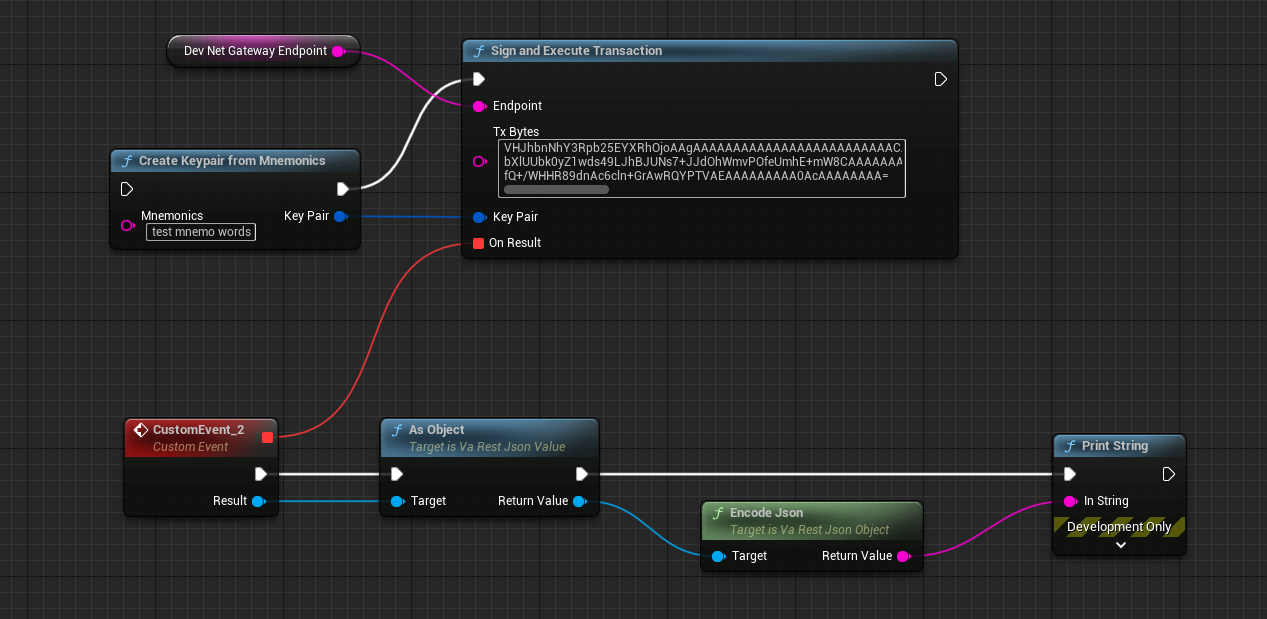
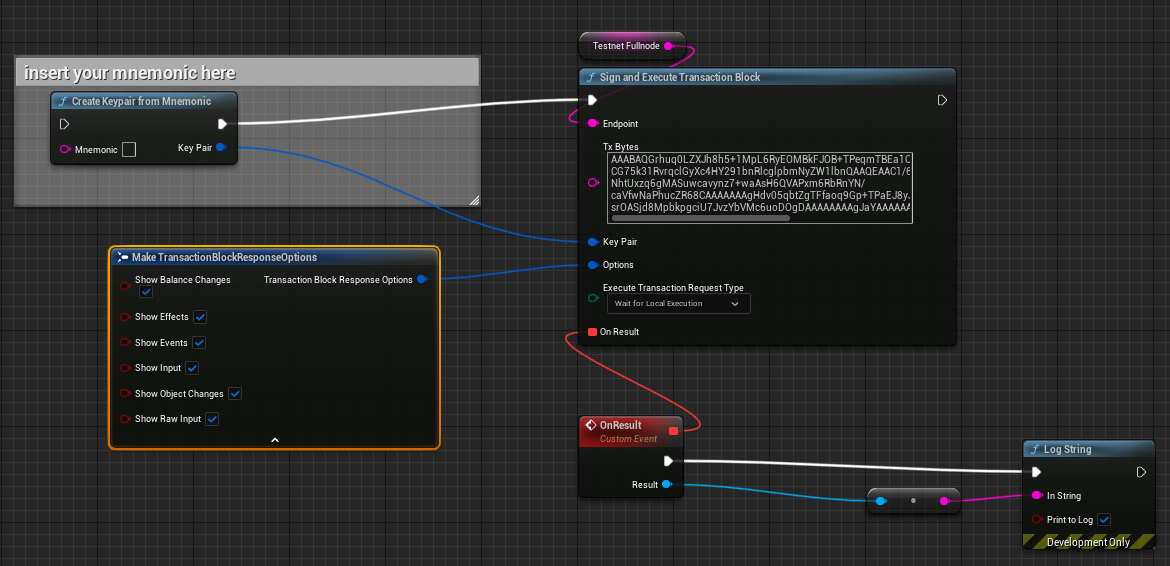
update readme

Changed region(s): [[0.0, 0.03, 1.0, 0.9912], [0.8, 0.1802, 0.8308, 0.2102], [0.5231, 0.6608, 0.5538, 0.6908]]

diff --git a/README.md b/README.md
@@ -8,9 +8,9 @@ Connecting Unreal game developers to Sui blockchain and Origin Byte's NFT ecosys
 	- Call Sui Move contracts
 	- Sign, Batch and Execute Transactions,
 	- Transfer, Split and Merge SUI coins and objects
-	- Get Historical Event Data
+	- Mint Origin Byte NFTs
 - Restore Ed25519 Keypairs from BIP39 mnemonics and Create new Keypairs
-- Tested on Windows desktop with Sui version 0.10.0
+- Tested on Windows desktop with Sui version 1.13.0 and Nft Protocol 1.2.0 on Testnet
 - Works with Unreal Engine 5
 
 # Getting Started
@@ -39,7 +39,8 @@ C++:
 	RpcSuccessDelegate.BindLambda([OnResult](const FJsonRpcValidResponse& RpcResponse) {
 		UE_LOG(LogTemp, Log, TEXT("Response received."));
 	});
-	Client.GetObject(ObjectId, RpcSuccessDelegate);
+	FObjectDataOptions Options;
+	Client.GetObject(ObjectId, Options, RpcSuccessDelegate);
 ```
 ## RPC Historical Event Read API
 ![Historical Event Read API Blueprints](/imgs/event_read_api_nodes.png "Historical Event Read API Blueprints")
@@ -47,9 +48,8 @@ C++:
 ## Transaction API
 ![Transaction API Blueprints](/imgs/transaction_api_nodes.png "Transaction API Blueprints")
 
-Call Mint Devnet NFT move contract:
-
-![Mint Devnet NFT Blueprints](/imgs/mint_devnet_nft.png "Mint Devnet NFT Blueprints")
+Prepare mint Nft transaction
+![Mint Nft](/imgs/mint_nft.png "Mint Nft")
 
 Sign And Execute Transactions:
 
@@ -59,17 +59,17 @@ Sign And Execute Transactions:
 ![Crypto Helper API Blueprints](/imgs/crypto_helpers_nodes.png "Crypto Helper API Blueprints")
 
 # Copy paste ready Blueprint Nodes
-[Copy paste ready Blueprint Nodes](https://blueprintue.com/blueprint/wcm2f6op/)
+[Copy paste ready Blueprint Nodes](https://blueprintue.com/blueprint/r_twkgi2/)
+
 
 # Dependencies
-The SDK Plugin currently depends on the [VaRest](https://www.unrealengine.com/marketplace/en-US/product/varest-plugin) plugin available from the marketplace.
+The SDK Plugin depends on the [VaRest](https://www.unrealengine.com/marketplace/en-US/product/varest-plugin) plugin available from the marketplace.
 All the other Dependencies can be found in the Plugins folder.
 
 # Roadmap
 - More platform support (iOS, Android, Mac)
 - Streaming RPC client, Event subscription
 - More RPC APIs and type bindings
-- WalletConnect support
 - More samples
-- Origin-Byte NFT ecosystem access from Unreal Engine
+- More NFT protocol bindings for Unreal Engine
 - Higher level APIs, easy-to-use Blueprint nodes
